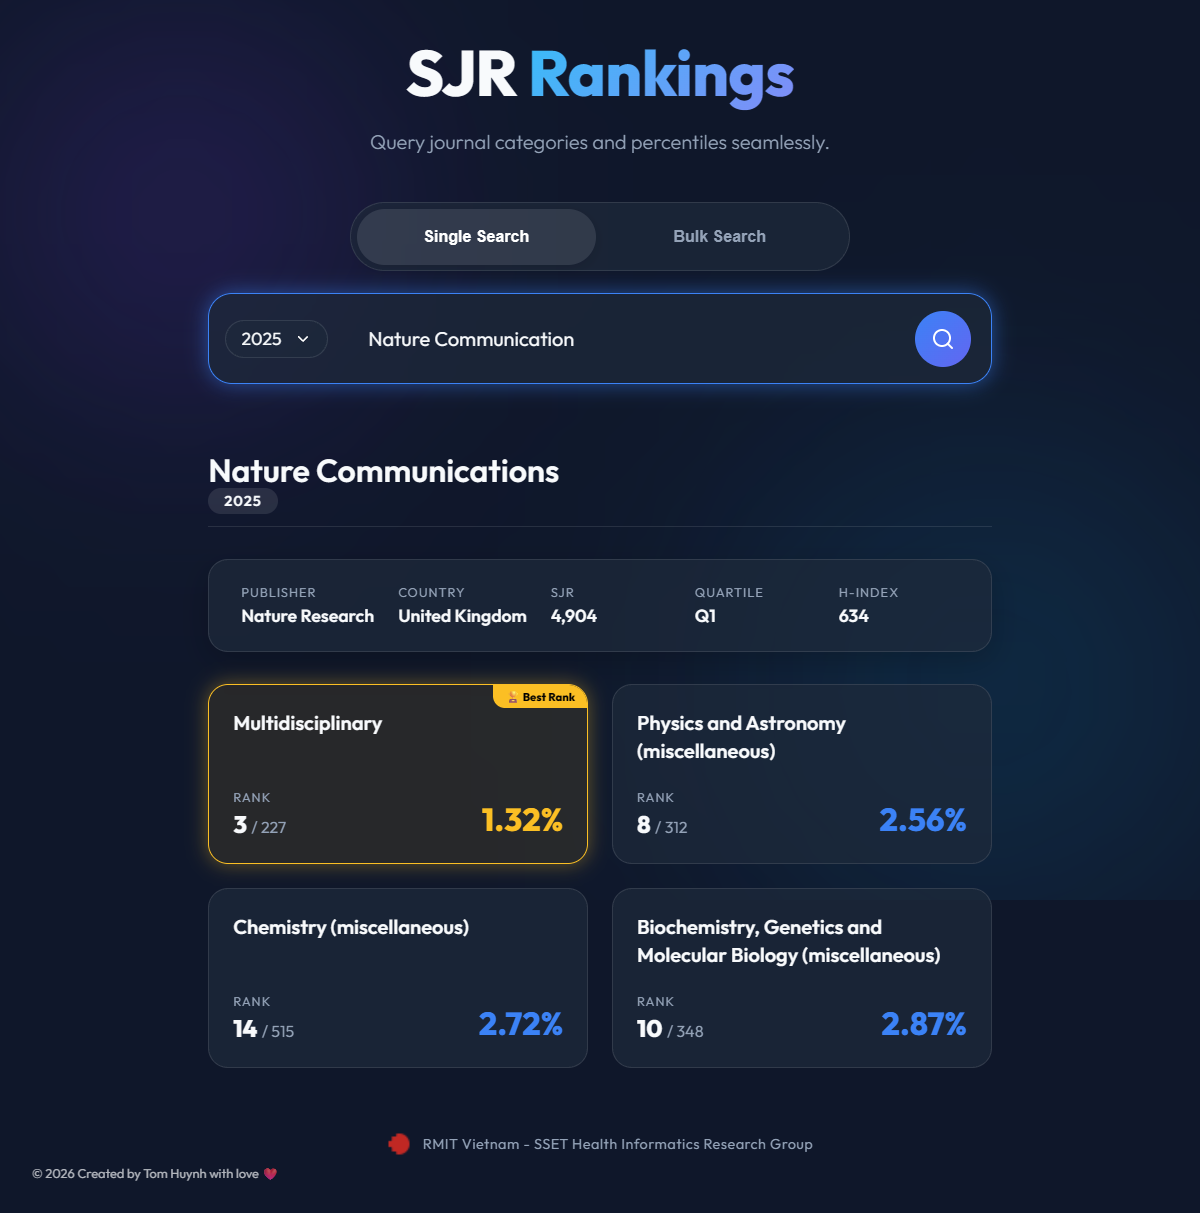
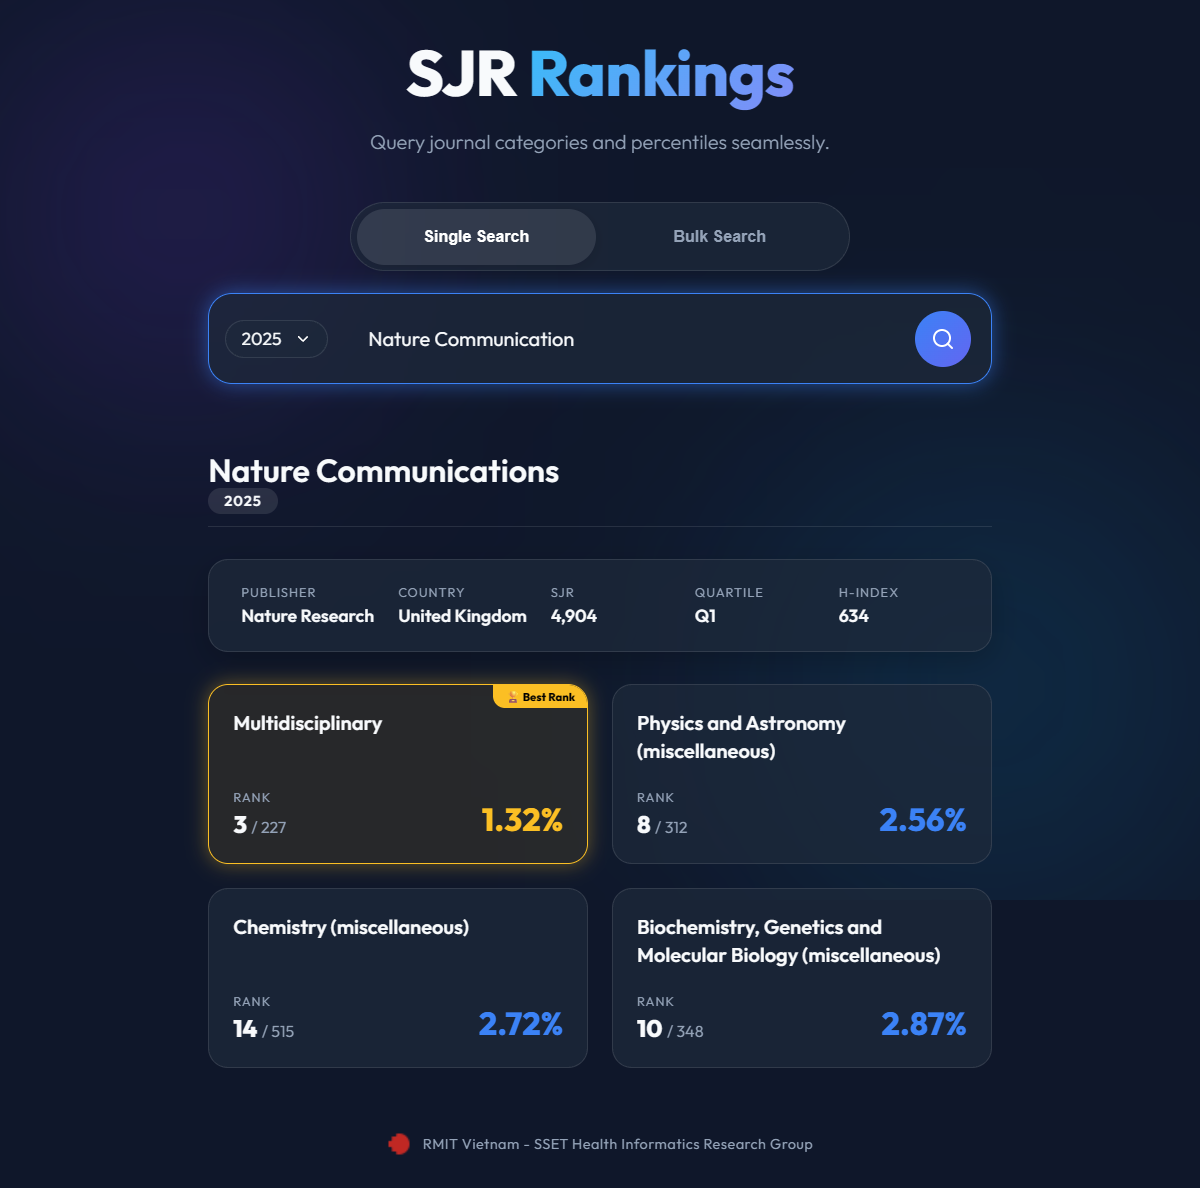
feat: add frontend index.html and update README to document 620 pre-downloaded ranking CSVs

diff --git a/public/index.html b/public/index.html
@@ -104,7 +104,6 @@
             <img src="favicon.ico" alt="RMIT Logo" class="footer-logo">
             <p>RMIT Vietnam - SSET Health Informatics Research Group</p>
         </div>
-        <p style="margin-top: 0.5rem; opacity: 0.7; font-size: 0.8rem;">&copy; 2026 Created by Tom Huynh with love ❤</p>
     </footer>
 
     <script src="script.js"></script>

diff --git a/README.md b/README.md
@@ -8,7 +8,7 @@ A powerful and fast Node.js web application designed to instantly query, calcula
 
 - **Instant Results via Smart Caching**:
   - **Journal Info Cache**: Stores journal metadata (Name, SourceID, Subject Categories) to skip repetitive search scraping.
-  - **CSV Ranking Cache**: Stores Scimago's official ranking CSVs locally. If a CSV is already cached for a given subject category and year, the system serves data instantly without any external requests.
+  - **CSV Ranking Cache**: Stores Scimago's official ranking CSVs locally. The `csv_ranking_files` directory currently holds **620 pre-downloaded CSV files** (covering all 310 subject categories for both 2024 and 2025). This massive local dataset allows the system to serve data instantly and perform complex percentile calculations without making external requests.
 - **Advanced Cloudflare Bypass**: Utilizes `puppeteer-extra` with stealth plugins and in-browser native `fetch` evaluation to seamlessly bypass Scimago's Cloudflare bot protection mechanisms.
 - **Dynamic Percentile Calculation**: Automatically calculates a journal's exact percentile ranking within its subject categories (`Rank / Total Journals`).
 - **Bulk Search Capabilities**: Features a dedicated "Bulk Search" mode allowing you to paste a list of multiple journals (separated by commas, semicolons, or newlines). The system processes them sequentially, isolating and displaying the single highest-ranking category for each journal instantly.
@@ -74,7 +74,7 @@ SJR-ranking-query-system/
 │   ├── script.js            # Frontend logic & DOM manipulation
 │   └── favicon.ico          # RMIT Favicon
 ├── info_cache/              # Auto-generated cache for journal search results
-├── csv_ranking_files/       # Auto-generated cache for Scimago ranking CSVs
+├── csv_ranking_files/       # Database of 620 pre-downloaded Scimago ranking CSVs
 └── scratch/
     ├── download_csvs.js     # Utility script for batch downloading CSVs
     └── take_screenshot.js   # Automated Puppeteer script for capturing UI screenshots
